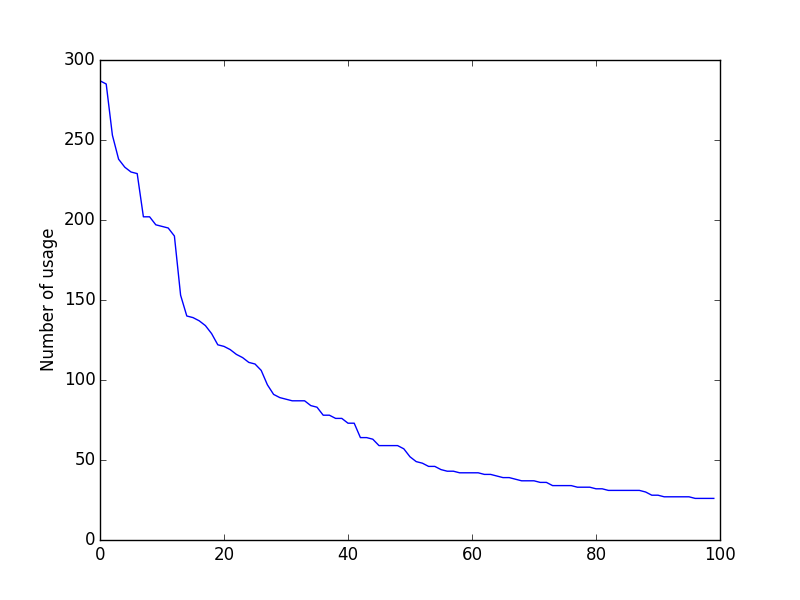
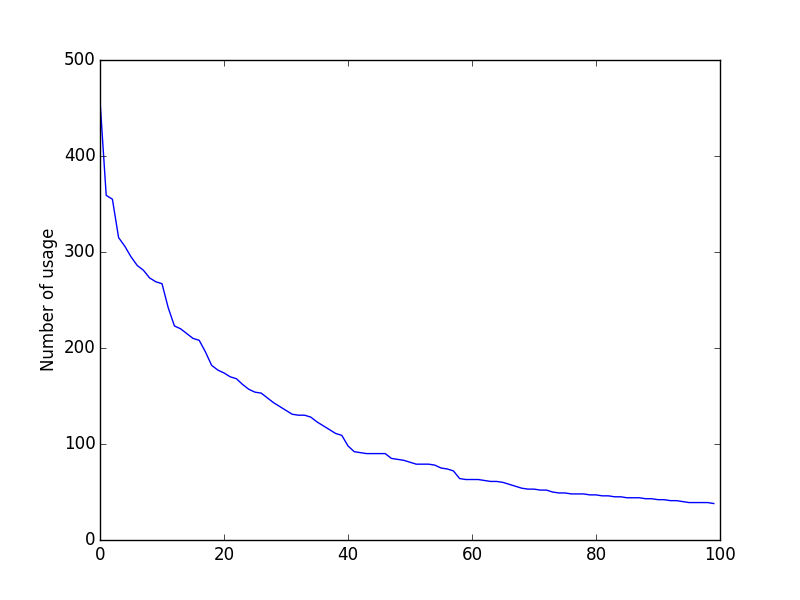
Fix comment parsing

diff --git a/eigenvimrc.py b/eigenvimrc.py
@@ -7,7 +7,7 @@ import time
 
 # requires internet connection
 step1 = 0
-step2 = 1  # most time intensive
+step2 = 0  # most time intensive
 
 # doesn't require internet connection
 step3 = 1
@@ -78,13 +78,16 @@ if step3:
         for line in txt:
             if (not line.startswith('\"')) and \
                not any(s in line for s in excluded_keywords):
-                # strip comments
-                sanitized_txt.append(re.sub('\".*$', '', line))
                 # strip trailing whitespaces
-                sanitized_txt[-1] = sanitized_txt[-1].strip()
-                # strip empty lines
-                if len(sanitized_txt[-1]) == 0:
-                    sanitized_txt.pop()
+                sanitized_line = line.strip()
+                # strip comment
+                # detection is done by checking if the number of quotes
+                # are odd
+                if line.count('"') % 2 != 0:
+                    sanitized_line = sanitized_line[:sanitized_line.rfind('"')]
+                # only append when line is not empty
+                if len(sanitized_line) > 0:
+                    sanitized_txt.append(sanitized_line)
         vimrcs.append(sanitized_txt)
 
     # flatten the nested list
@@ -105,7 +108,7 @@ if step4:
         os.makedirs("plugin")
     with open('plugin/eigenvimrc.vim', 'wb') as f:
         for i in eigenvimrc:
-            if i[1]*100./total_vimrc >= 50:  # 50% most used
+            if i[1]*100./total_vimrc >= 30:  # 30% most used
                 f.write(i[0]+'\n')
 
 # step 5: generate plot for analysis

diff --git a/README.md b/README.md
@@ -19,106 +19,106 @@ The "voting" process may iterate as follows:
 #Result
 Most common vim config out of 710 vimrc's
 
-0. set nocompatible, 77.18%
-1. syntax on, 75.77%
-2. set expandtab, 64.37%
-3. filetype plugin indent on, 61.27%
-4. set incsearch, 60.99%
-5. set hlsearch, 59.86%
-6. set number, 59.72%
-7. set autoindent, 53.38%
-8. set laststatus=2, 52.39%
-9. set ignorecase, 51.97%
-10. set ruler, 51.13%
-11. set shiftwidth=4, 49.86%
-12. set tabstop=4, 47.46%
-13. set showmatch, 41.13%
-14. filetype off, 38.87%
-15. set showcmd, 38.17%
-16. set wildmenu, 37.18%
-17. set smartcase, 36.76%
-18. set backspace=indent,eol,start, 35.21%
-19. set encoding=utf-8, 34.93%
-20. set background=dark, 34.93%
-21. filetype plugin on, 34.37%
-22. set t_Co=256, 34.08%
-23. set nobackup, 31.97%
-24. set smarttab, 29.58%
-25. set softtabstop=4, 28.73%
-26. set hidden, 27.89%
-27. set cursorline, 27.32%
-28. set smartindent, 26.90%
-29. set mouse=a, 25.35%
-30. filetype indent on, 24.37%
-31. set noswapfile, 22.11%
-32. set shiftwidth=2, 21.97%
-33. set nowrap, 21.13%
-34. syntax enable, 20.85%
-35. set rtp+=~/.vim/bundle/vundle/, 20.85%
-36. exec, 20.42%
-37. set tabstop=2, 19.44%
-38. set autoread, 19.30%
-39. set showmode, 19.30%
-40. filetype on, 19.30%
-41. exe, 18.59%
-42. au!, 18.31%
-43. let mapleader =, 17.32%
-44. autocmd!, 17.32%
-45. set wrap, 17.04%
-46. set guioptions-=T, 17.04%
-47. set noerrorbells, 16.62%
-48. set nu, 15.63%
-49. set list, 15.35%
-50. let mapleader=, 13.80%
-51. set softtabstop=2, 13.80%
-52. set title, 13.80%
-53. colorscheme solarized, 13.24%
-54. set undofile, 13.24%
-55. autocmd BufReadPost *, 12.68%
-56. set novisualbell, 12.25%
-57. endf, 11.97%
-58. set history=1000, 11.69%
-59. echo, 11.55%
-60. set scrolloff=3, 11.27%
-61. endfun, 10.99%
-62. set shiftround, 10.85%
-63. set cmdheight=2, 10.70%
-64. endfor, 10.56%
-65. set visualbell, 10.56%
-66. set cindent, 10.56%
-67. set termencoding=utf-8, 10.42%
-68. set backspace=2, 10.14%
-69. colorscheme desert, 9.72%
-70. set wildmode=list:longest, 9.58%
-71. set ttyfast, 9.44%
-72. set linebreak, 9.44%
-73. set fileencoding=utf-8, 9.01%
-74. set t_vb=, 8.87%
-75. try, 8.87%
-76. endtry, 8.87%
-77. set foldmethod=indent, 8.73%
-78. set ai, 8.59%
-79. set clipboard=unnamed, 8.31%
-80. set foldenable, 8.31%
-81. set magic, 8.03%
-82. set backup, 7.89%
-83. set lazyredraw, 7.89%
-84. endwhile, 7.89%
-85. catch, 7.46%
-86. set guioptions-=m, 7.32%
-87. set undolevels=1000, 7.18%
-88. set autochdir, 7.18%
-89. nnoremap ; :, 7.04%
-90. set gdefault, 6.90%
-91. end, 6.90%
-92. set history=50, 6.90%
-93. set modeline, 6.90%
-94. set nowb, 6.90%
-95. set encoding=utf8, 6.76%
-96. nnoremap j gj, 6.76%
-97. nnoremap k gk, 6.76%
-98. set nowritebackup, 6.62%
-99. set lbr, 6.48%
+0. ```syntax on``` 64.51%
+1. ```set nocompatible``` 50.56%
+2. ```set expandtab``` 50.00%
+3. ```filetype plugin indent on``` 44.37%
+4. ```set number``` 43.10%
+5. ```set autoindent``` 41.55%
+6. ```set shiftwidth=4``` 40.28%
+7. ```set hlsearch``` 39.58%
+8. ```set tabstop=4``` 38.45%
+9. ```set laststatus=2``` 37.89%
+10. ```set incsearch``` 37.61%
+11. ```set ignorecase``` 34.08%
+12. ```set encoding=utf-8``` 31.41%
+13. ```set background=dark``` 30.99%
+14. ```set ruler``` 30.28%
+15. ```filetype plugin on``` 29.58%
+16. ```set smartcase``` 29.30%
+17. ```set t_Co=256``` 27.61%
+18. ```set backspace=indent,eol,start``` 25.63%
+19. ```set wildmenu``` 24.93%
+20. ```set showmatch``` 24.51%
+21. ```set softtabstop=4``` 23.94%
+22. ```filetype off``` 23.66%
+23. ```set smartindent``` 22.82%
+24. ```set nobackup``` 22.11%
+25. ```set smarttab``` 21.69%
+26. ```set showcmd``` 21.55%
+27. ```set rtp+=~/.vim/bundle/vundle/``` 20.85%
+28. ```filetype indent on``` 20.14%
+29. ```set mouse=a``` 19.58%
+30. ```set noswapfile``` 19.01%
+31. ```set cursorline``` 18.45%
+32. ```au!``` 18.31%
+33. ```set shiftwidth=2``` 18.31%
+34. ```set hidden``` 18.03%
+35. ```autocmd!``` 17.32%
+36. ```syntax enable``` 16.76%
+37. ```set tabstop=2``` 16.20%
+38. ```filetype on``` 15.63%
+39. ```let mapleader = ","``` 15.35%
+40. ```set nowrap``` 13.80%
+41. ```set autoread``` 12.96%
+42. ```set nu``` 12.82%
+43. ```set guioptions-=T``` 12.68%
+44. ```colorscheme solarized``` 12.68%
+45. ```autocmd BufReadPost *``` 12.68%
+46. ```set list``` 12.68%
+47. ```endf``` 11.97%
+48. ```set softtabstop=2``` 11.83%
+49. ```set noerrorbells``` 11.69%
+50. ```set wrap``` 11.41%
+51. ```""``` 11.13%
+52. ```set showmode``` 11.13%
+53. ```let mapleader=","``` 11.13%
+54. ```endfun``` 10.99%
+55. ```endfor``` 10.56%
+56. ```set undofile``` 10.42%
+57. ```set termencoding=utf-8``` 10.14%
+58. ```set novisualbell``` 9.01%
+59. ```try``` 8.87%
+60. ```endtry``` 8.87%
+61. ```filetype plugin indent on     ``` 8.87%
+62. ```set cindent``` 8.73%
+63. ```colorscheme desert``` 8.59%
+64. ```set nocompatible               ``` 8.59%
+65. ```set fileencoding=utf-8``` 8.45%
+66. ```set t_vb=``` 8.17%
+67. ```set title``` 7.89%
+68. ```endwhile``` 7.61%
+69. ```set scrolloff=3``` 7.46%
+70. ```catch``` 7.46%
+71. ```set wildmode=list:longest``` 7.32%
+72. ```filetype off                   ``` 7.32%
+73. ```nnoremap ; :``` 7.04%
+74. ```end``` 6.90%
+75. ```set history=1000``` 6.90%
+76. ```nnoremap j gj``` 6.76%
+77. ```set backspace=2``` 6.76%
+78. ```nnoremap k gk``` 6.76%
+79. ```set cmdheight=2``` 6.62%
+80. ```set nowb``` 6.62%
+81. ```set encoding=utf8``` 6.48%
+82. ```set visualbell``` 6.48%
+83. ```set linebreak``` 6.34%
+84. ```set lbr``` 6.34%
+85. ```set ttyfast``` 6.20%
+86. ```autocmd FileType css set omnifunc=csscomplete#CompleteCSS``` 6.20%
+87. ```set tm=500``` 6.20%
+88. ```set foldmethod=indent``` 6.06%
+89. ```set backspace=eol,start,indent``` 6.06%
+90. ```colorscheme molokai``` 5.92%
+91. ```set modeline``` 5.92%
+92. ```let g:neocomplcache_enable_at_startup = 1``` 5.77%
+93. ```set shiftround``` 5.77%
+94. ```set clipboard=unnamed``` 5.63%
+95. ```vnoremap < <gv``` 5.49%
+96. ```map <C-l> <C-W>l``` 5.49%
+97. ```map <C-h> <C-W>h``` 5.49%
+98. ```vnoremap > >gv``` 5.49%
+99. ```map <C-j> <C-W>j``` 5.35%
 
 #Plot
 Strangely it doesn't follow the power law distribution. Likely because some settings are highly correlated with the others.
